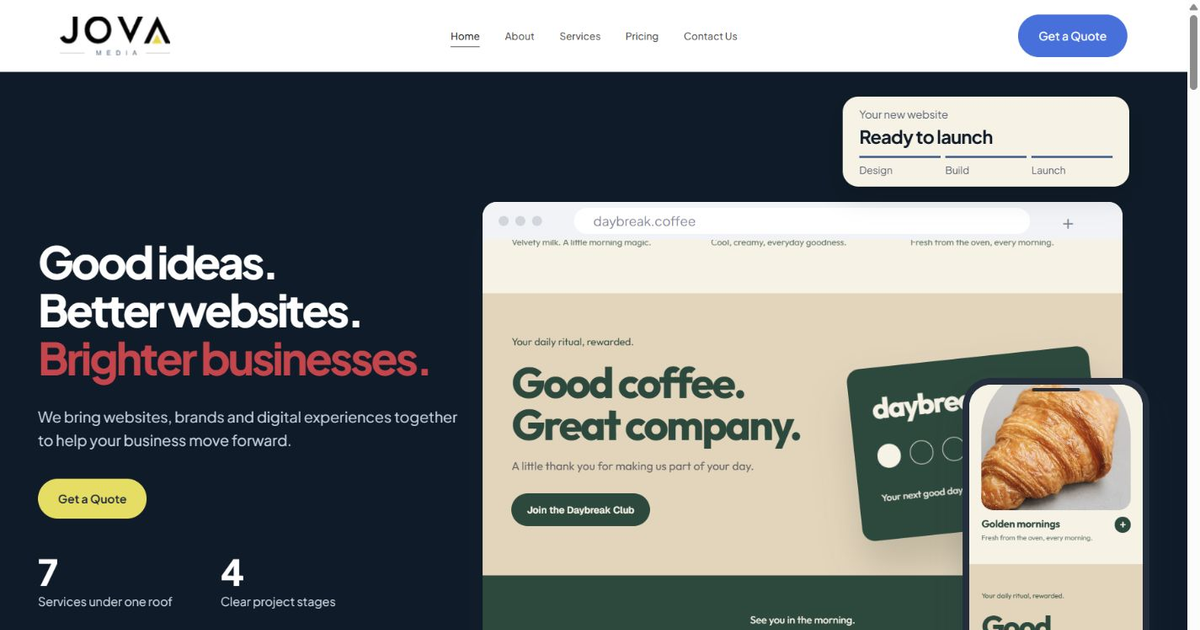
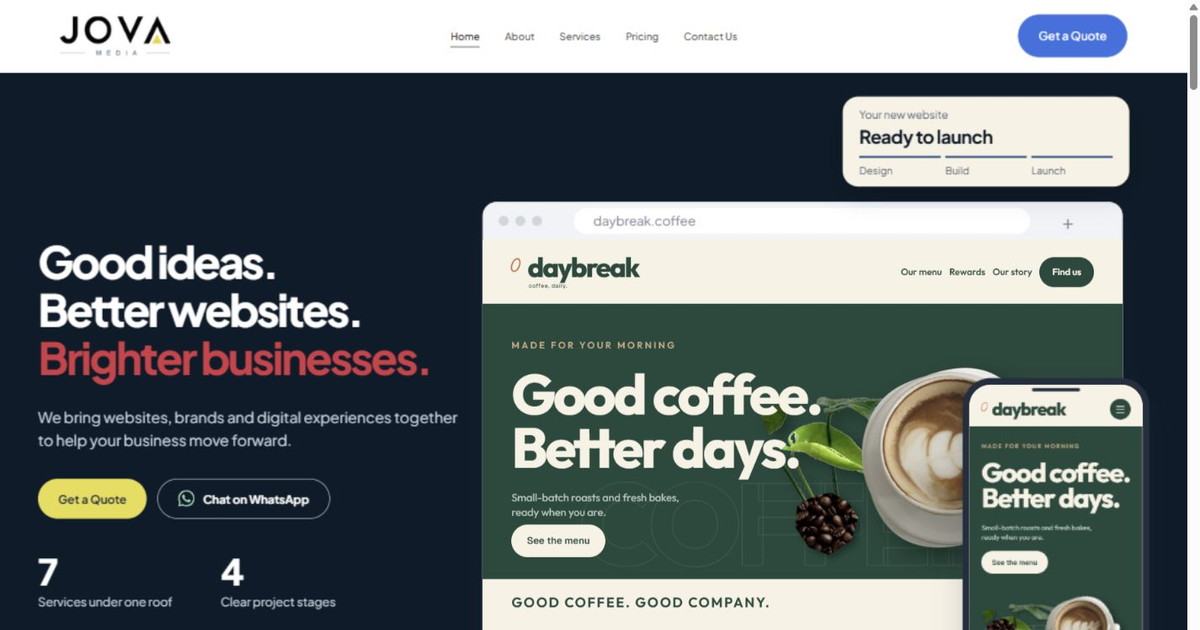
Add direct WhatsApp Business and call contact options

diff --git a/components/DaybreakHero.js b/components/DaybreakHero.js
@@ -3,6 +3,8 @@
 import { useEffect, useRef } from "react";
 import ConsultationLink from "./ConsultationLink";
 import styles from "./DaybreakHero.module.css";
+import { WhatsAppIcon } from "./BusinessContact";
+import { whatsappLink } from "@/lib/business-contact.mjs";
 
 function CoffeeSite(){return (<article className="siteCopy coffeeSite">
 <div className="coffeeNav"><strong><i aria-hidden="true"></i>daybreak<span>coffee, daily.</span></strong><span>Our menu &nbsp;&nbsp; Rewards &nbsp;&nbsp; Our story &nbsp;&nbsp; <b>Find us</b></span><i className="coffeeMobileMenu">☰</i></div>
@@ -32,5 +34,5 @@ export default function DaybreakHero(){
   Promise.all([document.fonts.ready,...[...el.querySelectorAll('img')].map(img=>img.decode().catch(()=>{}))]).then(()=>{if(disposed)return;measure();showcase.classList.add('ready');sync();});
   return()=>{disposed=true;cancelAnimationFrame(frame);resize.disconnect();intersection.disconnect();document.removeEventListener('visibilitychange',sync);media.removeEventListener('change',sync);};
  },[]);
- return <section ref={root} className={styles.root} aria-labelledby="home-title"><div className="shell"><div className="hero"><div className="message"><h1 id="home-title">Good ideas.<br/>Better websites.<br/><span>Brighter businesses.</span></h1><p className="description">We bring websites, brands and digital experiences together to help your business move forward.</p><div className="actions"><ConsultationLink className="primary" placement="hero">Get my free website consultation</ConsultationLink></div><div className="facts"><div><strong>7</strong><span>Services under one roof</span></div><div><strong>4</strong><span>Clear project stages</span></div></div></div><div className="showcase"><div className="backdrop" aria-hidden="true"></div><div className="browser device" aria-hidden="true"><div className="browserBar"><span className="dots"><i></i><i></i><i></i></span><span className="address">daybreak.coffee</span><span className="browserPlus">+</span></div><div className="screen"><div className="scrollTrack" data-screen="desktop">{[0,1].map(copy => <CoffeeSite key={copy}/>)}</div></div></div><div className="launch"><span>Your new website</span><strong>Ready to launch</strong><div className="stages"><span>Design</span><span>Build</span><span>Launch</span></div></div><div className="phone device" aria-hidden="true"><div className="phoneSpeaker"></div><div className="screen"><div className="scrollTrack" data-screen="phone">{[0,1].map(copy => <CoffeeSite key={copy}/>)}</div></div></div></div></div></div></section>;
+ return <section ref={root} className={styles.root} aria-labelledby="home-title"><div className="shell"><div className="hero"><div className="message"><h1 id="home-title">Good ideas.<br/>Better websites.<br/><span>Brighter businesses.</span></h1><p className="description">We bring websites, brands and digital experiences together to help your business move forward.</p><div className="actions"><ConsultationLink className="primary" placement="hero">Get my free website consultation</ConsultationLink><a className="secondary whatsappAction" href={whatsappLink("hero")} target="_blank" rel="noopener noreferrer" data-contact-placement="hero"><WhatsAppIcon />Chat on WhatsApp</a></div><div className="facts"><div><strong>7</strong><span>Services under one roof</span></div><div><strong>4</strong><span>Clear project stages</span></div></div></div><div className="showcase"><div className="backdrop" aria-hidden="true"></div><div className="browser device" aria-hidden="true"><div className="browserBar"><span className="dots"><i></i><i></i><i></i></span><span className="address">daybreak.coffee</span><span className="browserPlus">+</span></div><div className="screen"><div className="scrollTrack" data-screen="desktop">{[0,1].map(copy => <CoffeeSite key={copy}/>)}</div></div></div><div className="launch"><span>Your new website</span><strong>Ready to launch</strong><div className="stages"><span>Design</span><span>Build</span><span>Launch</span></div></div><div className="phone device" aria-hidden="true"><div className="phoneSpeaker"></div><div className="screen"><div className="scrollTrack" data-screen="phone">{[0,1].map(copy => <CoffeeSite key={copy}/>)}</div></div></div></div></div></div></section>;
 }

diff --git a/components/BusinessContact.js b/components/BusinessContact.js
@@ -1,0 +1,19 @@
+import { Phone } from "lucide-react";
+import { businessPhone, whatsappLink } from "@/lib/business-contact.mjs";
+import s from "./BusinessContact.module.css";
+
+export function WhatsAppIcon({ size = 20 }) {
+  return <svg width={size} height={size} viewBox="0 0 24 24" fill="currentColor" aria-hidden="true"><path d="M20.52 3.48A11.9 11.9 0 0 0 12.05 0C5.47 0 .12 5.35.12 11.93c0 2.1.55 4.16 1.6 5.98L.02 24l6.26-1.64a11.9 11.9 0 0 0 5.76 1.47h.01C18.63 23.83 24 18.48 24 11.9c0-3.18-1.24-6.18-3.48-8.42Zm-8.47 18.34a9.9 9.9 0 0 1-5.04-1.38l-.36-.21-3.72.98.99-3.63-.24-.37a9.87 9.87 0 0 1-1.52-5.28c0-5.46 4.44-9.9 9.91-9.9a9.84 9.84 0 0 1 7 2.9 9.84 9.84 0 0 1 2.9 7c0 5.45-4.45 9.89-9.92 9.89Zm5.44-7.41c-.3-.15-1.76-.87-2.03-.97-.27-.1-.47-.15-.67.15-.2.3-.77.97-.94 1.17-.17.2-.35.22-.65.07-.3-.15-1.26-.46-2.4-1.48-.89-.8-1.49-1.78-1.66-2.08-.18-.3-.02-.46.13-.61.13-.14.3-.35.45-.52.15-.18.2-.3.3-.5.1-.2.05-.37-.03-.52-.07-.15-.67-1.61-.91-2.2-.24-.58-.49-.5-.67-.51h-.57c-.2 0-.52.07-.79.37s-1.04 1.02-1.04 2.48c0 1.46 1.07 2.87 1.22 3.07.15.2 2.1 3.2 5.09 4.49.71.31 1.27.49 1.7.63.72.23 1.37.2 1.89.12.58-.09 1.76-.72 2.01-1.41.25-.7.25-1.29.17-1.41-.07-.13-.27-.2-.57-.35Z" /></svg>;
+}
+
+export default function BusinessContact({ placement = "contact" }) {
+  return <section className={s.panel} aria-label="Talk to JovaMedia directly">
+    <p className={s.title}>Prefer a quick conversation?</p>
+    <p className={s.copy}>Tell us what you have in mind on WhatsApp, or give us a call.</p>
+    <div className={s.actions}>
+      <a className={s.whatsapp} href={whatsappLink(placement)} target="_blank" rel="noopener noreferrer" data-contact-placement="content"><WhatsAppIcon />Chat on WhatsApp<span aria-hidden="true">↗</span></a>
+      <a className={s.call} href={businessPhone.tel} data-contact-placement="content"><Phone size={17} aria-hidden="true" />Call {businessPhone.display}</a>
+    </div>
+    <p className={s.note}>No form needed. If we’re away, leave a message and we’ll get back to you.</p>
+  </section>;
+}

diff --git a/app/get-a-quote/page.js b/app/get-a-quote/page.js
@@ -1,4 +1,5 @@
 import QuoteForm from "@/components/QuoteForm";
+import BusinessContact from "@/components/BusinessContact";
 import { quoteProducts } from "@/lib/quote-fields.mjs";
 import { pageMetadata } from "@/lib/seo";
 import s from "./quote.module.css";
@@ -9,7 +10,7 @@ export default async function QuotePage({ searchParams }) {
   const product = quoteProducts.some(option => option.value === params?.product) ? params.product : "";
   return <main>
     <section className={s.page}>
-      <aside className={s.intro}><p className="kicker">YOUR NEXT CHAPTER</p><h2>A clear next step.</h2><p>Tell us what you have in mind. We’ll review your request and reply by email, or phone if you prefer.</p><ol><li>Share a few details</li><li>Talk through the options</li><li>Agree the scope together</li></ol><p className={s.reassurance}>No obligation. Just a conversation about what your business needs.</p></aside>
+      <aside className={s.intro}><p className="kicker">YOUR NEXT CHAPTER</p><h2>A clear next step.</h2><p>Tell us what you have in mind. We’ll review your request and reply by email, or phone if you prefer.</p><BusinessContact placement="quote" /><ol><li>Share a few details</li><li>Talk through the options</li><li>Agree the scope together</li></ol><p className={s.reassurance}>No obligation. Just a conversation about what your business needs.</p></aside>
       <QuoteForm key={product} product={product} />
     </section>
   </main>;

diff --git a/components/BusinessContact.module.css b/components/BusinessContact.module.css
@@ -1,0 +1,1 @@
+.panel{margin-top:28px;padding:24px;border:1px solid #cbd9e3;border-radius:16px;background:#fff;color:#0c2948;text-align:left}.panel .title{font-size:19px;font-weight:600;line-height:1.35;margin:0 0 8px;letter-spacing:-.025em}.panel .copy{font-size:14px;line-height:1.65;margin:0 0 18px;color:#526475}.actions{display:flex;flex-direction:column;align-items:stretch;gap:10px}.actions a{display:flex;align-items:center;justify-content:center;gap:10px;min-height:48px;padding:12px 16px;border-radius:99px;text-decoration:none;font-size:14px;font-weight:600;line-height:1.5;transition:background .18s,transform .18s}.actions .whatsapp{background:#176b47;color:#fff}.whatsapp span{margin-left:auto}.whatsapp svg{margin-right:auto;flex-shrink:0}.actions .call{color:#0c2948;border:1px solid #cbd9e3;background:#fff;font-size:13px}.actions a:hover{transform:translateY(-2px)}.actions .whatsapp:hover{background:#115538}.actions .call:hover{background:#f1f5f7}.actions a:focus-visible{outline:3px solid #235789;outline-offset:4px}.panel .note{font-size:12px;line-height:1.6;margin:14px 0 0;color:#526475}@media(max-width:900px){.panel{text-align:center}.actions{max-width:340px;margin-inline:auto}}@media(max-width:360px){.panel{padding:18px}.actions .call{font-size:12px;padding-inline:10px}}@media(prefers-reduced-motion:reduce){.actions a{transition:none}.actions a:hover{transform:none}}

diff --git a/components/MarketingAnalytics.js b/components/MarketingAnalytics.js
@@ -97,7 +97,7 @@ export default function MarketingAnalytics() {
       const placement = element.closest("header") ? "header" : element.closest("footer") ? "footer" : element.closest("main")?.querySelector("section")?.contains(element) ? "hero" : "content";
       if (url.origin === window.location.origin && ["/get-a-quote", "/contact"].includes(url.pathname)) trackEvent("cta_click", { destination: url.pathname, placement });
       const channel = url.protocol === "mailto:" ? "email" : url.protocol === "tel:" ? "phone" : ["wa.me", "api.whatsapp.com", "web.whatsapp.com"].includes(url.hostname) ? "whatsapp" : url.origin === window.location.origin && url.pathname === "/contact" ? "contact_page" : url.origin === window.location.origin ? "navigation" : "outbound";
-      trackEvent(["email", "phone", "whatsapp", "contact_page"].includes(channel) ? "contact_click" : "select_content", { channel, ...(url.origin === window.location.origin ? { destination: url.pathname } : {}) });
+      trackEvent(["email", "phone", "whatsapp", "contact_page"].includes(channel) ? "contact_click" : "select_content", { channel, placement: element.dataset.contactPlacement || placement, ...(url.origin === window.location.origin ? { destination: url.pathname } : {}) });
     };
     const scroll = () => {
       const distance = document.documentElement.scrollHeight - window.innerHeight;

diff --git a/components/Footer.js b/components/Footer.js
@@ -1,10 +1,11 @@
 import Image from "next/image";
 import Link from "next/link";
 import CookieConsent from "./CookieConsent";
+import { businessPhone, whatsappLink } from "@/lib/business-contact.mjs";
 export default function Footer(){return <footer className="jova-footer">
  <Link href="/" aria-label="JovaMedia home"><Image src="/brand/jova-logo.png" alt="JovaMedia" width={361} height={128}/></Link>
  <div><h3>Studio</h3><Link href="/about">Our story</Link><Link href="/work">Our work</Link><Link href="/services">Our approach</Link></div>
  <div><h3>Services</h3><Link href="/services">Explore our services</Link><Link href="/get-a-quote">Get a Quote</Link><Link href="/contact">Contact Us</Link></div>
- <div><h3>Contact</h3><a href="mailto:support.jovamedia@gmail.com">support.jovamedia@gmail.com</a><Link href="/privacy-policy">Privacy</Link><Link href="/terms">Terms</Link><CookieConsent/></div>
+ <div><h3>Contact</h3><a href="mailto:support.jovamedia@gmail.com">support.jovamedia@gmail.com</a><a href={businessPhone.tel}>{businessPhone.display}</a><a href={whatsappLink()} target="_blank" rel="noopener noreferrer">Chat on WhatsApp</a><Link href="/privacy-policy">Privacy</Link><Link href="/terms">Terms</Link><CookieConsent/></div>
  <p>© {new Date().getFullYear()} JovaMedia<br/>Distinctive digital experiences.</p>
  </footer>}

diff --git a/components/DaybreakHero.module.css b/components/DaybreakHero.module.css
@@ -106,3 +106,5 @@
 }
 @media(min-width:801px) and (max-height:740px){.root :global(.message h1){font-size:clamp(30px,3.6vw,62px)}}
 @media(max-width:800px){.root :global(.showcase){margin-top:28px}.root :global(.message h1){font-size:clamp(28px,7.1vw,54px)}.root :global(.description){font-size:16px}.root :global(.actions){font-size:14px}.root :global(.actions a){min-height:48px;padding:15px 22px}.root :global(.facts span){font-size:12px}}
+.root :global(.whatsappAction){display:inline-flex;align-items:center;justify-content:center;gap:10px;min-height:48px;border:1px solid #c4d3df;border-radius:99px;background:transparent;color:#fff}.root :global(.whatsappAction svg){flex-shrink:0;color:#9ce6be}.root :global(.whatsappAction:hover){background:#ffffff12}@media(max-width:480px){.root :global(.actions){gap:10px}.root :global(.actions a){font-size:13px;padding-inline:18px}}
+.root :global(.actions .whatsappAction){height:48px;padding-block:12px}

diff --git a/app/studio.css b/app/studio.css
@@ -60,7 +60,7 @@
 .jova-pages .contact-page .contact-intro>div:first-child h2{color:#0c2948}
 .jova-pages .contact-page .contact-intro>div:first-child p,.jova-pages .contact-page .contact-intro>div:first-child .lead{color:#35445a}
 .jova-pages .contact-page .contact-intro>div:first-child .kicker{color:#a81f29}
-.jova-pages .contact-page .contact-intro>div:first-child a{color:#0c2948;overflow-wrap:anywhere;text-decoration:underline;text-underline-offset:4px}
+.jova-pages .contact-page .contact-intro>div:first-child>p a{color:#0c2948;overflow-wrap:anywhere;text-decoration:underline;text-underline-offset:4px}
 .jova-pages .contact-page .contact-fit h2{color:#0c2948}
 .jova-pages .contact-page .contact-fit-grid article>span{color:#fff}
 @media(max-width:700px){.jova-pages .contact-page .page-hero{padding:40px 0 46px}.jova-pages .contact-page .contact-intro>div:first-child{text-align:center}}

diff --git a/app/contact/page.js b/app/contact/page.js
@@ -2,6 +2,7 @@ import ProjectFAQ from "@/components/ProjectFAQ";
 import { pageMetadata } from "@/lib/seo";
 import ContactForm from "@/components/ContactForm";
 import MotionRegion from "@/components/MotionRegion";
+import BusinessContact from "@/components/BusinessContact";
 export const metadata = pageMetadata(
   "/contact",
   "Contact JovaMedia",
@@ -32,6 +33,7 @@ export default function Page() {
               <br />
               London, United Kingdom
             </p>
+            <BusinessContact />
           </div>
           <div data-motion-card className="contact-form-panel" style={{ "--card-delay": "100ms" }}><ContactForm /></div>
         </MotionRegion>
